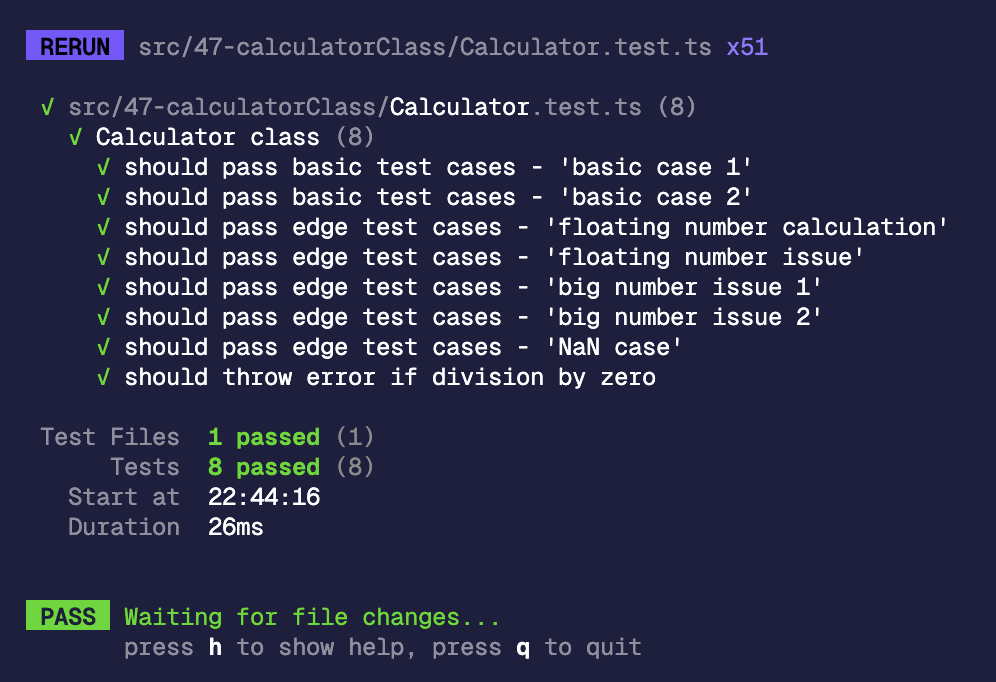
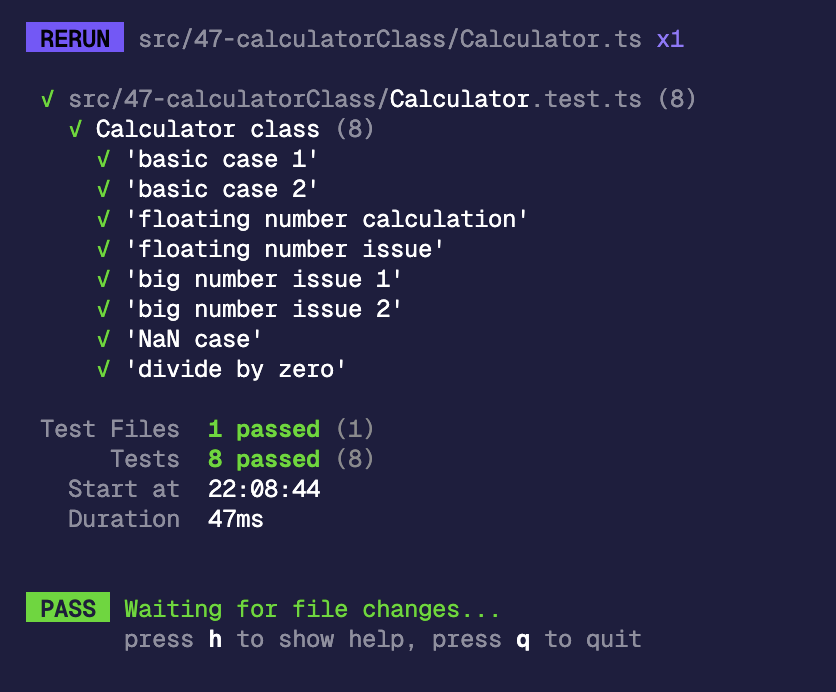
refactor(47): update Calculator class implementation

diff --git a/src/47-calculatorClass/Calculator.test.ts b/src/47-calculatorClass/Calculator.test.ts
@@ -1,7 +1,7 @@
-import { describe, expect, test, it } from 'vitest';
+import { describe, expect, test } from 'vitest';
 import Calculator, { ACTION_ENUM } from './Calculator';
 
-const basicCases = [
+const testCases = [
   {
     title: 'basic case 1',
     actions: [ACTION_ENUM.ADD, ACTION_ENUM.SUBTRACT, ACTION_ENUM.GET_RESULT],
@@ -16,9 +16,6 @@ const basicCases = [
     values: [5, 2],
     expected: 100,
   },
-];
-
-const edgeCases = [
   {
     title: 'floating number calculation',
     actions: [
@@ -50,7 +47,7 @@ const edgeCases = [
     actions: [ACTION_ENUM.MULTIPLY, ACTION_ENUM.POWER, ACTION_ENUM.GET_RESULT],
     initialValue: Number.MAX_SAFE_INTEGER,
     values: [Number.MAX_SAFE_INTEGER, 2],
-    expected: 6.582018229284821e+63,
+    expected: 6.582018229284821e63,
   },
   {
     title: 'NaN case',
@@ -64,44 +61,34 @@ const edgeCases = [
     values: [2, NaN, 0],
     expected: NaN,
   },
+  {
+    title: 'divide by zero',
+    actions: [ACTION_ENUM.DIVIDE, ACTION_ENUM.GET_RESULT],
+    initialValue: 5,
+    values: [0],
+    expectedError: 'Division by zero is not allowed',
+  },
 ];
 
 describe('Calculator class', () => {
-  test.each(basicCases)(
-    'should pass basic test cases - $title',
-    ({ actions, initialValue, values, expected }) => {
-      let calculator = new Calculator(initialValue);
+  test.each(testCases)(
+    '$title',
+    ({ actions, initialValue, values, expected, expectedError }) => {
+      const calculator = new Calculator(initialValue);
 
-      actions.forEach((action, index) => {
-        if (action === ACTION_ENUM.GET_RESULT) {
-          expect(calculator.getResult()).toBe(expected);
-        } else {
-          calculator = calculator[action](values[index]);
+      try {
+        actions.forEach((action, index) => {
+          if (action === ACTION_ENUM.GET_RESULT) {
+            expect(calculator.getResult()).toBe(expected);
+          } else {
+            calculator[action](values[index]);
+          }
+        });
+      } catch (error) {
+        if (error instanceof Error) {
+          expect(error.message).toBe(expectedError);
         }
-      });
+      }
     }
   );
-
-  test.each(edgeCases)(
-    'should pass edge test cases - $title',
-    ({ actions, initialValue, values, expected }) => {
-      let calculator = new Calculator(initialValue);
-
-      actions.forEach((action, index) => {
-        if (action === ACTION_ENUM.GET_RESULT) {
-          expect(calculator.getResult()).toBe(expected);
-        } else {
-          calculator = calculator[action](values[index]);
-        }
-      });
-    }
-  );
-
-  it('should throw error if division by zero', () => {
-    let calculator = new Calculator(5);
-
-    expect(() => calculator[ACTION_ENUM.DIVIDE](0)).toThrowError(
-      'Division by zero is not allowed'
-    );
-  });
 });

diff --git a/src/47-calculatorClass/Calculator.ts b/src/47-calculatorClass/Calculator.ts
@@ -14,25 +14,25 @@ export default class Calculator {
     this.result = initialValue;
   }
 
-  [ACTION_ENUM.ADD] = (value: number) => {
+  add(value: number) {
     this.result += value;
 
     return this;
-  };
+  }
 
-  [ACTION_ENUM.SUBTRACT] = (value: number) => {
+  subtract(value: number) {
     this.result -= value;
 
     return this;
-  };
+  }
 
-  [ACTION_ENUM.MULTIPLY] = (value: number) => {
+  multiply(value: number) {
     this.result *= value;
 
     return this;
-  };
+  }
 
-  [ACTION_ENUM.DIVIDE] = (value: number) => {
+  divide(value: number) {
     if (value === 0) {
       throw new Error('Division by zero is not allowed');
     }
@@ -40,15 +40,15 @@ export default class Calculator {
     this.result /= value;
 
     return this;
-  };
+  }
 
-  [ACTION_ENUM.POWER] = (value: number) => {
+  power(value: number) {
     this.result **= value;
 
     return this;
-  };
+  }
 
-  [ACTION_ENUM.GET_RESULT] = () => {
+  getResult() {
     return Number(this.result.toFixed(1));
-  };
+  }
 }

diff --git a/src/47-calculatorClass/README.md b/src/47-calculatorClass/README.md
@@ -69,25 +69,25 @@ export default class Calculator {
     this.result = initialValue;
   }
 
-  [ACTION_ENUM.ADD] = (value: number) => {
+  add(value: number) {
     this.result += value;
 
     return this;
-  };
+  }
 
-  [ACTION_ENUM.SUBTRACT] = (value: number) => {
+  subtract(value: number) {
     this.result -= value;
 
     return this;
-  };
+  }
 
-  [ACTION_ENUM.MULTIPLY] = (value: number) => {
+  multiply(value: number) {
     this.result *= value;
 
     return this;
-  };
+  }
 
-  [ACTION_ENUM.DIVIDE] = (value: number) => {
+  divide(value: number) {
     if (value === 0) {
       throw new Error('Division by zero is not allowed');
     }
@@ -95,27 +95,27 @@ export default class Calculator {
     this.result /= value;
 
     return this;
-  };
+  }
 
-  [ACTION_ENUM.POWER] = (value: number) => {
+  power(value: number) {
     this.result **= value;
 
     return this;
-  };
+  }
 
-  [ACTION_ENUM.GET_RESULT] = () => {
+  getResult() {
     return Number(this.result.toFixed(1));
-  };
+  }
 }
 ```
 
-如果是 JS 的話應該蠻單純的，而這裡為了要寫 TypeScript 版本的單元測試，把 class function name 們抽出來做成 enum `ACTION_ENUM`，另外在確認基本測資都通過後，也好奇補了一些 number 運算的 edge case 確認：
+另外補上單元測試：
 
 ```ts
-import { describe, expect, test, it } from 'vitest';
+import { describe, expect, test } from 'vitest';
 import Calculator, { ACTION_ENUM } from './Calculator';
 
-const basicCases = [
+const testCases = [
   {
     title: 'basic case 1',
     actions: [ACTION_ENUM.ADD, ACTION_ENUM.SUBTRACT, ACTION_ENUM.GET_RESULT],
@@ -130,9 +130,6 @@ const basicCases = [
     values: [5, 2],
     expected: 100,
   },
-];
-
-const edgeCases = [
   {
     title: 'floating number calculation',
     actions: [
@@ -178,46 +175,36 @@ const edgeCases = [
     values: [2, NaN, 0],
     expected: NaN,
   },
+  {
+    title: 'divide by zero',
+    actions: [ACTION_ENUM.DIVIDE, ACTION_ENUM.GET_RESULT],
+    initialValue: 5,
+    values: [0],
+    expectedError: 'Division by zero is not allowed',
+  },
 ];
 
 describe('Calculator class', () => {
-  test.each(basicCases)(
-    'should pass basic test cases - $title',
-    ({ actions, initialValue, values, expected }) => {
-      let calculator = new Calculator(initialValue);
+  test.each(testCases)(
+    '$title',
+    ({ actions, initialValue, values, expected, expectedError }) => {
+      const calculator = new Calculator(initialValue);
 
-      actions.forEach((action, index) => {
-        if (action === ACTION_ENUM.GET_RESULT) {
-          expect(calculator.getResult()).toBe(expected);
-        } else {
-          calculator = calculator[action](values[index]);
+      try {
+        actions.forEach((action, index) => {
+          if (action === ACTION_ENUM.GET_RESULT) {
+            expect(calculator.getResult()).toBe(expected);
+          } else {
+            calculator[action](values[index]);
+          }
+        });
+      } catch (error) {
+        if (error instanceof Error) {
+          expect(error.message).toBe(expectedError);
         }
-      });
+      }
     }
   );
-
-  test.each(edgeCases)(
-    'should pass edge test cases - $title',
-    ({ actions, initialValue, values, expected }) => {
-      let calculator = new Calculator(initialValue);
-
-      actions.forEach((action, index) => {
-        if (action === ACTION_ENUM.GET_RESULT) {
-          expect(calculator.getResult()).toBe(expected);
-        } else {
-          calculator = calculator[action](values[index]);
-        }
-      });
-    }
-  );
-
-  it('should throw error if division by zero', () => {
-    let calculator = new Calculator(5);
-
-    expect(() => calculator[ACTION_ENUM.DIVIDE](0)).toThrowError(
-      'Division by zero is not allowed'
-    );
-  });
 });
 ```
 
